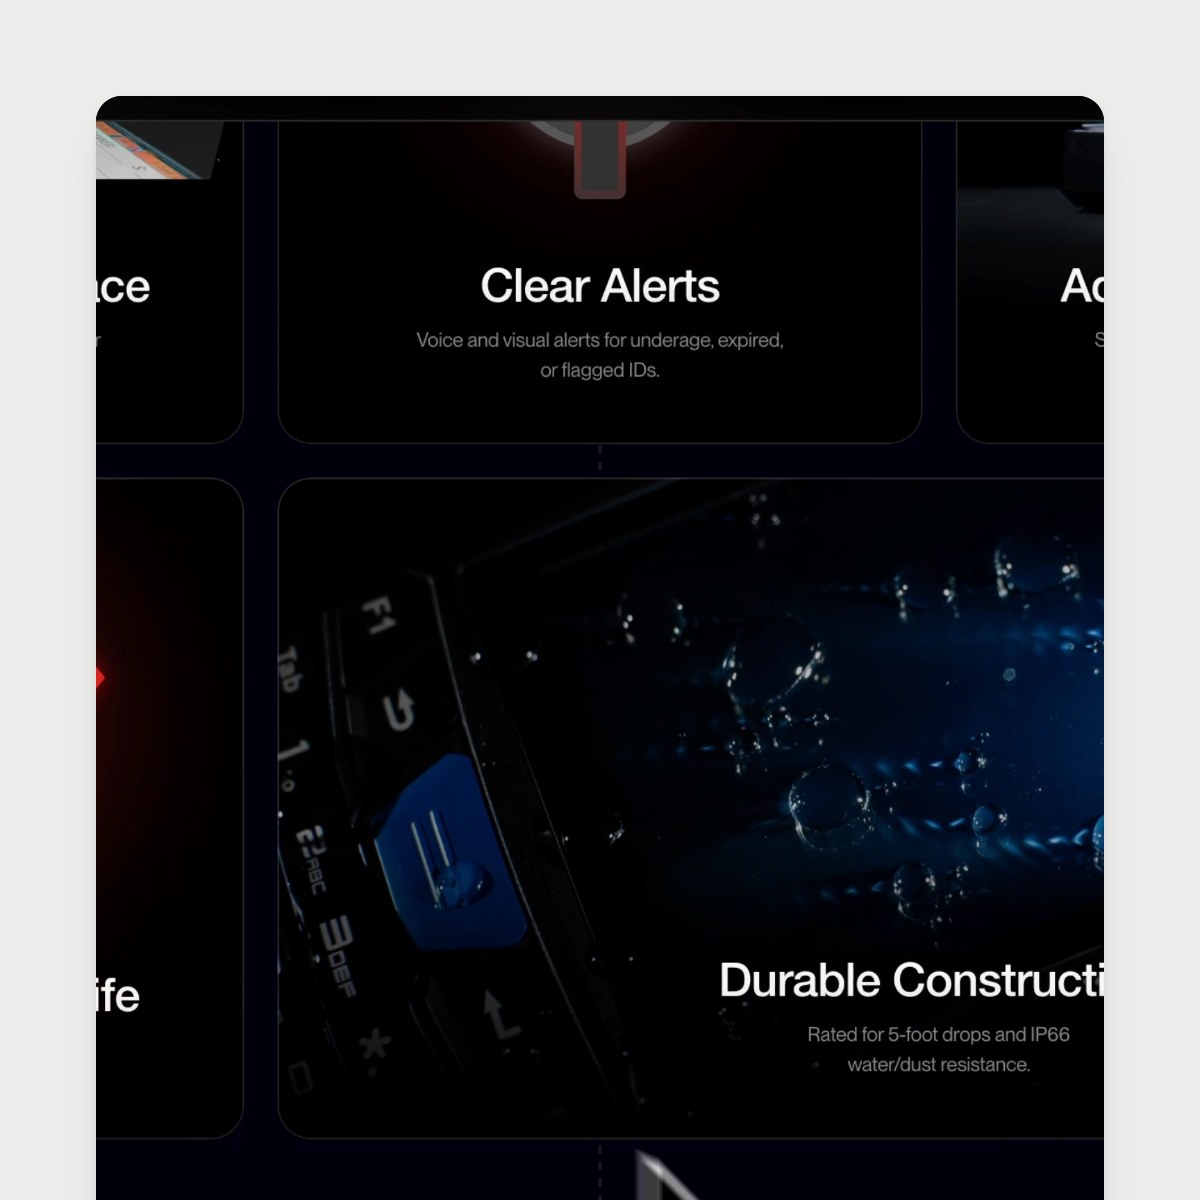
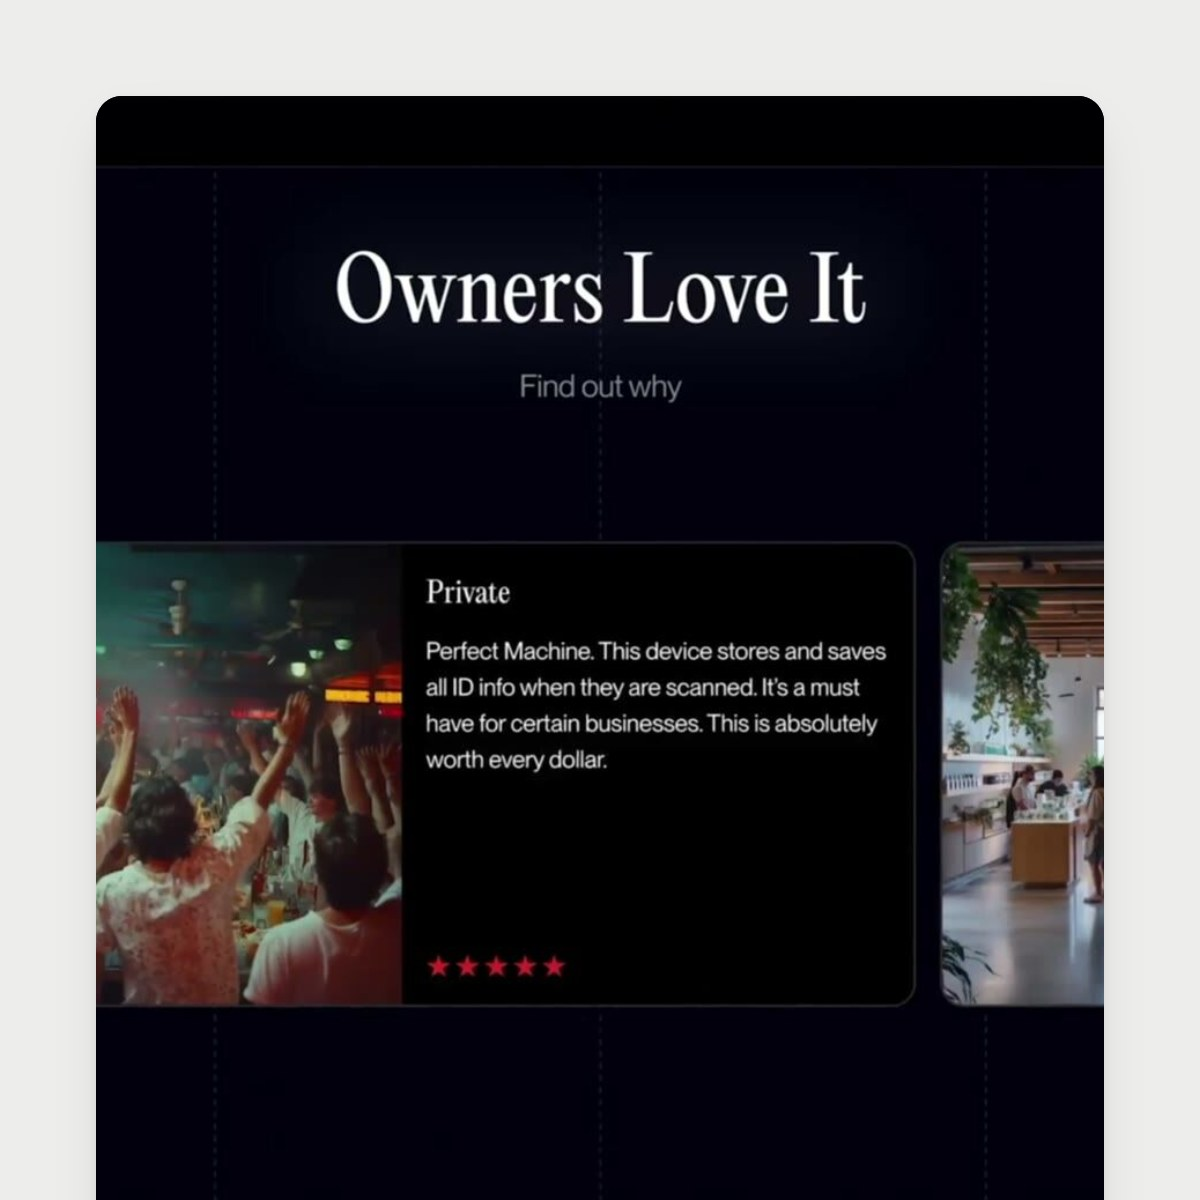
idVisor page stills: clean frames, no recording cursor; LivingIP clip ends before its blur

diff --git a/data/portfolioData.ts b/data/portfolioData.ts
@@ -565,7 +565,7 @@ export const clients: Client[] = [
             poster: `${KITS}/livingip-app/hero.jpg`,
             // The app on a laptop, then a phone. (Earlier stretches include “Poast”,
             // whose ownership is a question for Tyler, and pale blurred transitions.)
-            clip: [10.1, 13],
+            clip: [10.1, 12.7],
           },
           vertical: {
             src: `${PROJECTS}/living-ip/living-ip-vertical-compressed.mp4`,
